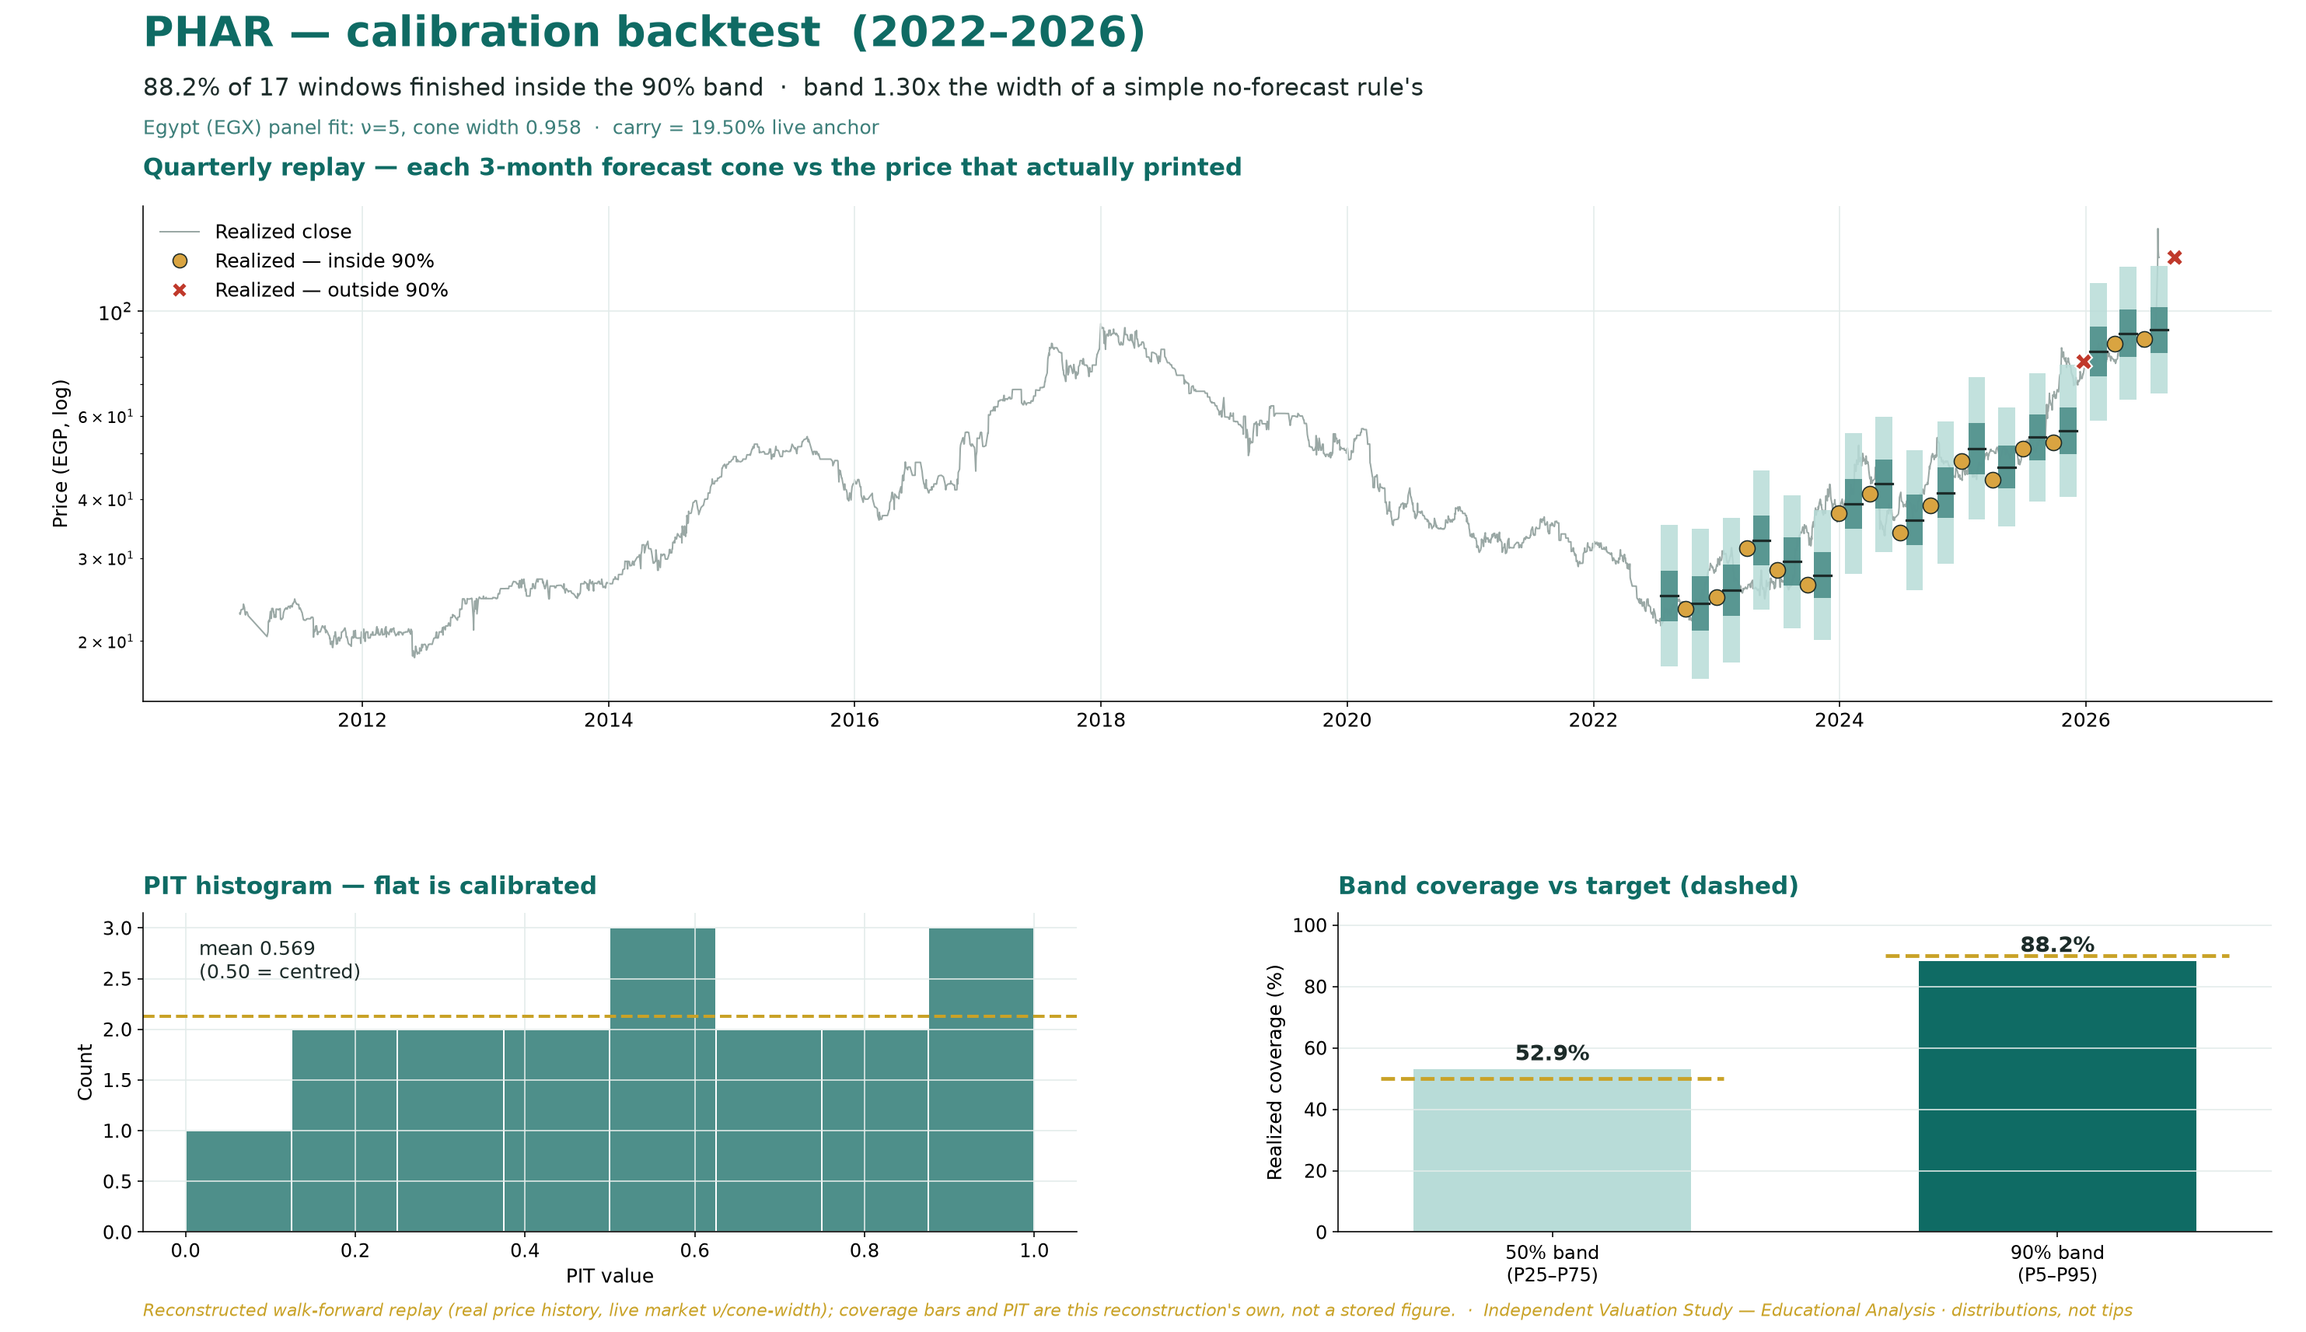
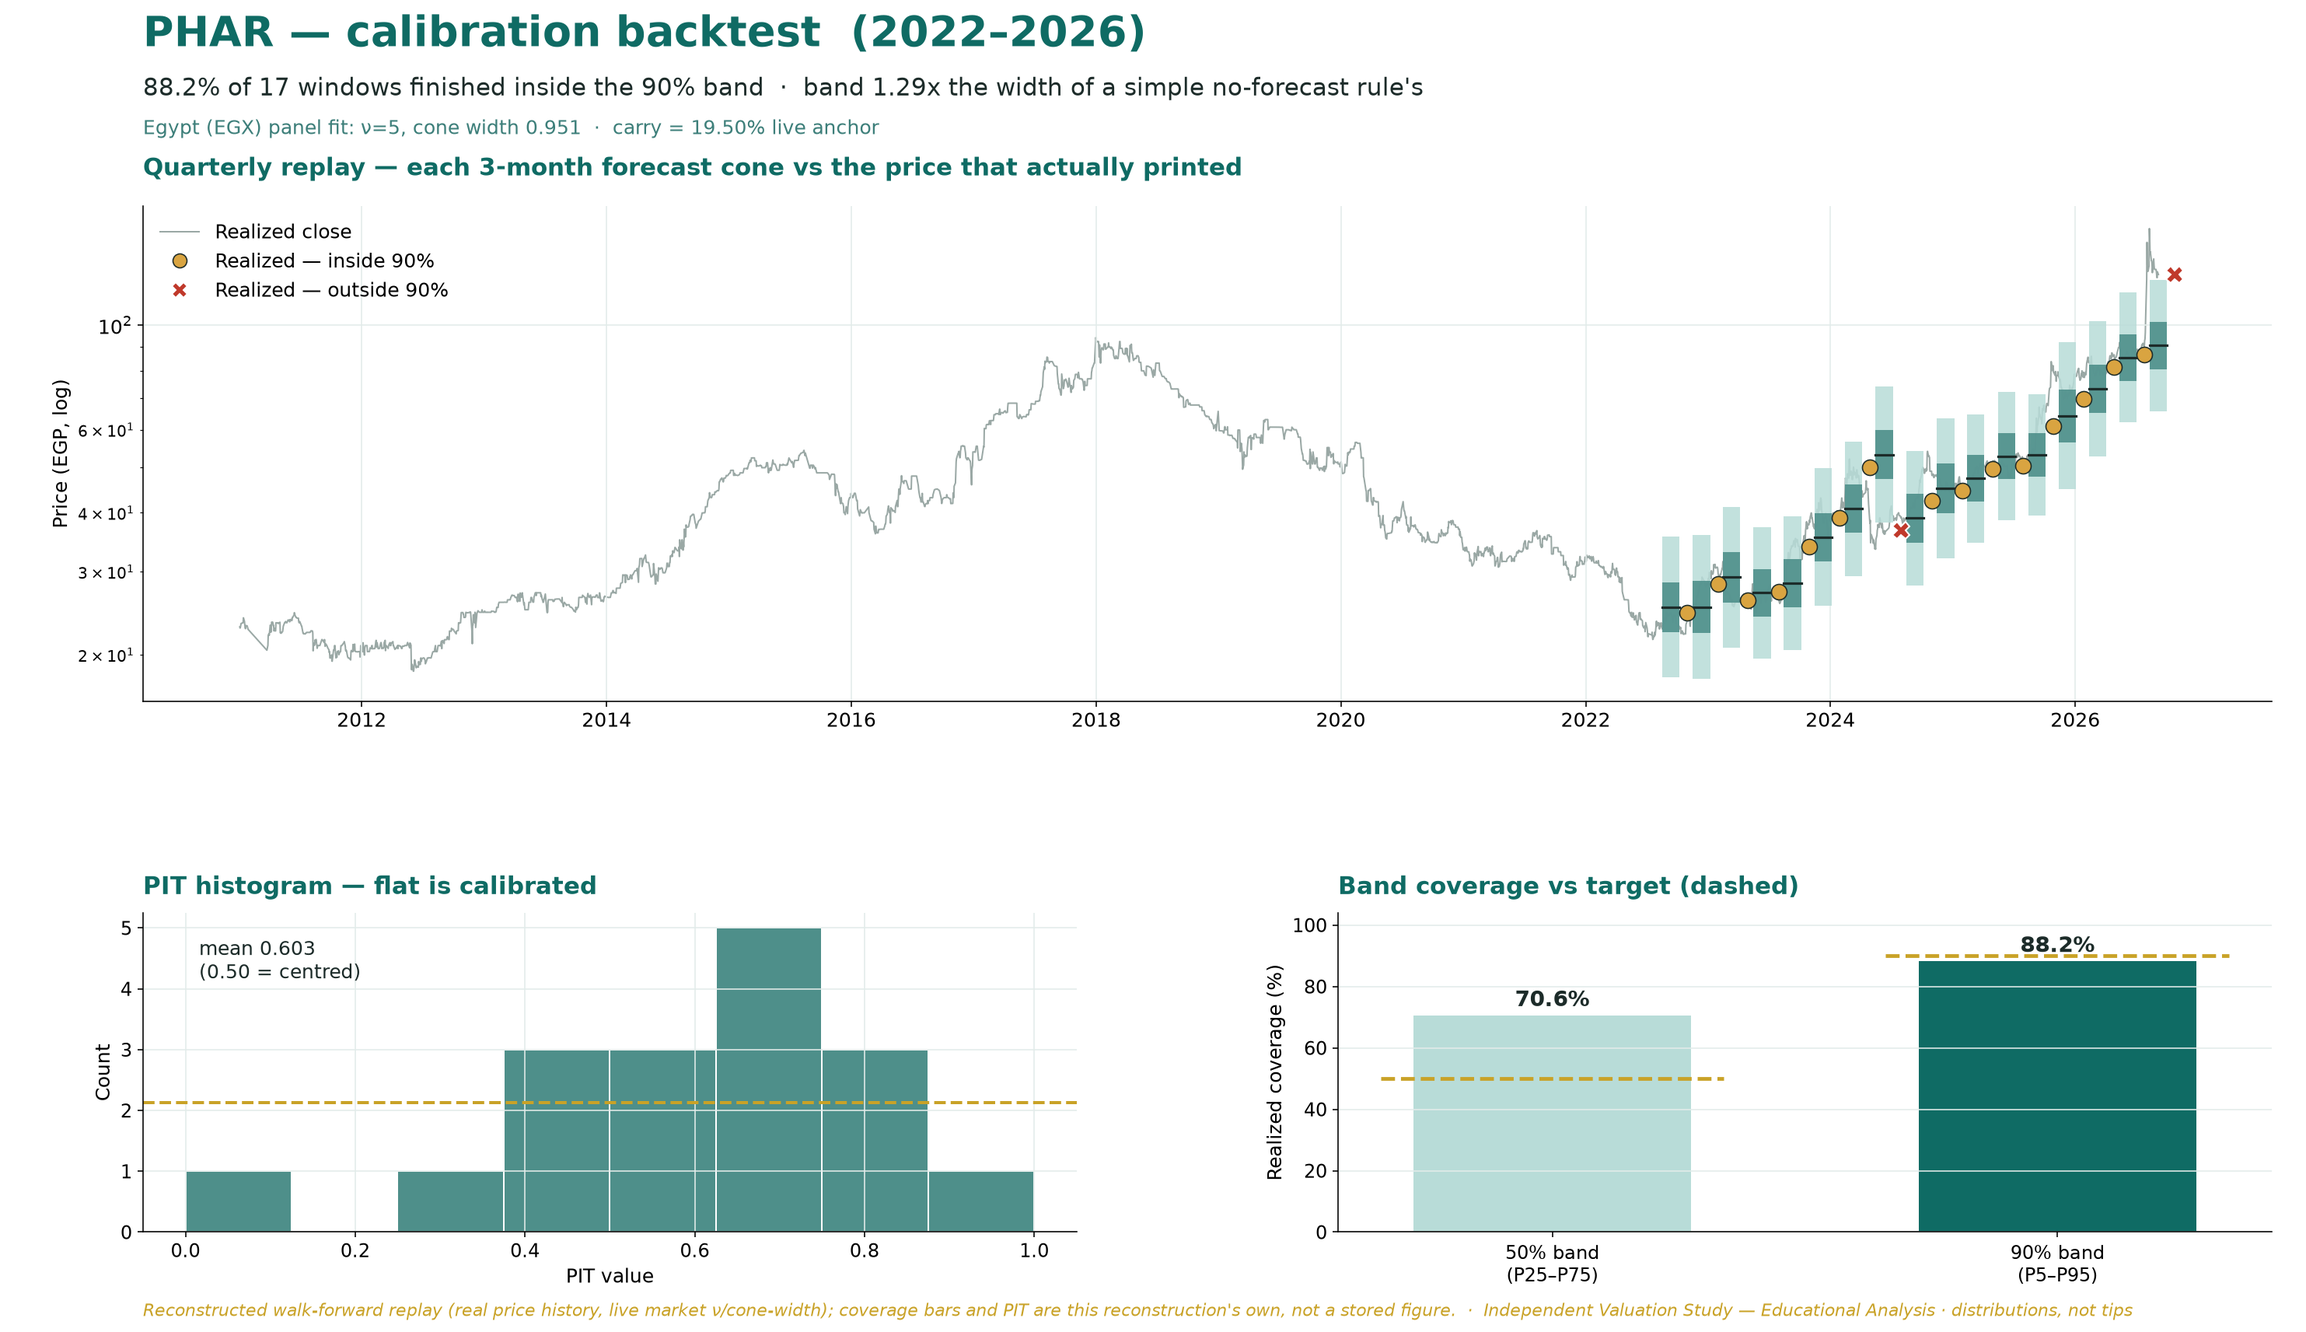
Mirror legacy/assets — the step the blocked publisher never reached
CI caught a real defect this branch introduced. check_legacy_assets_sync went RED
on legacy/assets/data.js and legacy/assets/calibration_PHAR.png: the /legacy/
pages are SERVED and read those paths relatively, so a reader on /legacy/ gets
those bytes rather than the assets/ copies this roll-forward rewrote.

THE CAUSE IS THE HOLD, NOT THE ROLL-FORWARD. mirror_legacy_assets() lives in
publish_site.py AFTER the [R-GAP-02] block at step 0/6, so refusing to publish
also skipped the mirroring — and the previous commit regenerated the surfaces by
hand precisely because the publisher had refused, without noticing that one of
the steps it skipped was not a surface generator but a COPY. Running the site's
own generators is not the same as running the publisher.

Fixed by calling publish_site.mirror_legacy_assets() itself rather than copying
the two files by hand — the function is the definition of what belongs in that
snapshot (it copies only files legacy ALREADY has, so it cannot add test.js or a
surface the old site never read). 103 files checked, 2 updated. The gate now
reads: every snapshotted surface matches assets/.

The PNG is not incidental: assets/calibration_PHAR.png was regenerated in the
roll-forward commit because PHAR's panel genuinely moved — it predated
[R-DRIFT-01], carrying alpha 0.0 on every row and a single constant drift, and
was rebuilt onto the live engine. The legacy copy was still the pre-rebuild
[…]

diff --git a/legacy/assets/data.js b/legacy/assets/data.js
@@ -461,34 +461,30 @@ const TICKERS = {
     name: "Egyptian International Pharmaceutical Industries (EIPICO)",
     nameAr: "\u0627\u0644\u0634\u0631\u0643\u0629 \u0627\u0644\u0645\u0635\u0631\u064a\u0629 \u0627\u0644\u062f\u0648\u0644\u064a\u0629 \u0644\u0644\u0635\u0646\u0627\u0639\u0627\u062a \u0627\u0644\u062f\u0648\u0627\u0626\u064a\u0629 - \u0625\u064a\u0628\u064a\u0643\u0648",
     code: "EGX:PHAR",
-    spot: 130.05,
-    spotDate: "close 6 Aug 2026",
+    spot: 128.00,
+    spotDate: "close 06 Sep 2026",
     fairAsof: "2026-08-06",   // the close the FAIR VALUE is struck on — not the publication date in the filename
     ccy: "EGP",
     fair: { bear: 58.04, base: 61.21, full: 73.03 },   // 9 Aug 2026 - TWO centres, never one. The contested judgement (the credit-loss and provision charge) is carried both ways and weighting both frames inside a single number would average them, which this study says it never does. Frame A, the charge permanent at 5.25% of revenue, gives a weighted centre of 61.21; Frame B, the charge normalising to 2.5%, gives 68.70. `base` below carries the CONSERVATIVE reading. Field 58.04 to 73.03 across five readings on four methods: cash flow 58.04 / 73.03, book value and sustainable return 62.81, relative multiples 65.42, normalised earnings power 65.40. Built bottom up from THREE product lines, each a volume x a price, reconciling the board report's two different splits of the same revenue: own preparations domestic (291.8m packs at EGP 21.22), own preparations exported (60m packs at USD 0.9996), and contract manufacturing (5.49m packs at a EGP 9.00 fee plus product resold through own channels). THE CRUX IS THE PLANT: EGP 4,901mn of construction - larger than the entire depreciated property base - was licensed in Dec-2025 and starts depreciating, and the study charges every pound of that while crediting the plant with NO revenue, because the company has published none. At EGP 130.05 the market pays EGP 72.01 a share, 55% of the price, for that plant - roughly 2.1x its stated USD 100mn cost - which needs about USD 120mn a year of biosimilar revenue by FY2030 to justify. Terminal return on capital and the terminal debt weight are COMPUTED from the model's own final year, not assumed; free cash flow is taxed at the effective rate; the forecast balance sheet is funded and balances.
     dist: {
-      t20: { label:"1 month",   p5:103.80, p25:120.56, p50:131.69, p75:143.94, p95:167.17, resolve:"2026-09-06" },
-      t60: { label:"3 months",  p5:94.40, p25:118.42, p50:135.30, p75:154.39, p95:193.82, resolve:"2026-11-08" }
+      t20: { label:"1 month",   p5:106.97, p25:122.04, p50:131.42, p75:141.53, p95:161.41, resolve:"2026-10-06" },
+      t60: { label:"3 months",  p5:97.50, p25:120.91, p50:136.46, p75:154.00, p95:190.66, resolve:"2026-12-06" }
     },
     hz: { h1:20, h3:62, l1:"1 month", l3:"3 months", cal:true },
+    fit: { nu:5, cal:0.951, mult:0.9, eff:0.8559, on:"2026-09-06" },
     touch: [ /* level, P(touch) 1-month %, 3-month % - descending */
-      [156.06, 17, 39],
-      [149.56, 27, 50],
-      [143.06, 43, 64],
-      [136.55, 64, 80],
-      [123.55, 57, 69],
-      [117.05, 33, 48]
+      [156.06, 12, 36], [149.56, 20, 47], [143.06, 34, 61], [136.55, 56, 77], [123.55, 58, 70], [117.05, 29, 45]
     ],
-    levels: { res:[140, 150, 156], sup:[92.40, 88.49, 85.40] },
+    levels: { res:[130, 135.41, 140], sup:[88.49, 85.40, 83.42] },
     tech: {
-      trend: "Trading above the whole moving-average stack, on a rising 200-day",
-      summary: "The price closed 130.05 above a rising 20-day (101.58), a rising 50-day (92.49) and a rising 200-day (82.58). Momentum is very strong: RSI(14) is ~71 and the daily ATR near 7.84 (~6.0%) points to a volatile tape. MACD (12\u00b726\u00b79) is positive and rising (+11.68 / +7.24 / +4.44). Over the last year it has ranged 43.60\u2013156.00; the last close sits 17% below that high and 198% above that low.",
-      bull: "A daily close back above 140.00 would clear the nearest resistance; the next charted level above it is 156.00.",
-      bear: "A close below 92.40 would break the nearest support; the next charted level below it is 85.40."
+      trend: "Consolidating below the near-term moving averages, above a rising 200-day",
+      summary: "The price closed 128.00 above a rising 50-day (112.27) and a rising 200-day (88.40), but below a rising 20-day (135.41). Momentum is neutral: RSI(14) is ~52 and the daily ATR near 7.58 (~5.9%) points to a volatile tape. MACD (12\u00b726\u00b79) is above zero but rolling over (+3.49 / +6.02 / \u22122.54). Over the last year it has ranged 53.10\u2013178.99; the last close sits 28% below that high and 141% above that low.",
+      bull: "A daily close back above 130.00 would clear the nearest resistance; the next charted level above it is 140.00.",
+      bear: "A close below 88.49 would break the nearest support; the next charted level below it is 83.42."
     },
     asof: {
-      mc:   { data:"2026-08-06", computed:"2026-08-06" },
-      tech: { data:"2026-08-06", computed:"2026-09-01" }
+      mc:   { data:"2026-09-06", computed:"2026-09-06" },
+      tech: { data:"2026-09-06", computed:"2026-09-06" }
     },
     files: {
       study: "files/PHAR_Valuation_Study_09-08-2026.pdf?v=0809b",
@@ -3259,7 +3255,7 @@ const BANDS = {
   ORAS: {mkt:"EG", n:41, hits:36, c50:0.4390, c80:0.8293, c90:0.8780, width:1.366, strength:"long", flag:null},
   ORHD: {mkt:"EG", n:41, hits:38, c50:0.5366, c80:0.8537, c90:0.9268, width:1.505, strength:"long", flag:null},
   ORWE: {mkt:"EG", n:57, hits:52, c50:0.5789, c80:0.7719, c90:0.9123, width:1.355, strength:"long", flag:null},
-  PHAR: {mkt:"EG", n:56, hits:56, c50:0.5536, c80:0.9464, c90:1.0000, width:1.454, strength:"long", flag:"wide"},
+  PHAR: {mkt:"EG", n:56, hits:56, c50:0.5536, c80:0.9643, c90:1.0000, width:1.447, strength:"long", flag:"wide"},
   PHDC: {mkt:"EG", n:57, hits:52, c50:0.5088, c80:0.8596, c90:0.9123, width:1.469, strength:"long", flag:null},
   PRDC: {mkt:"EG", n:15, hits:15, c50:0.7333, c80:0.8000, c90:1.0000, width:1.218, strength:"market-only", flag:null},
   Platinum: {mkt:"XPT", n:58, hits:55, c50:0.5690, c80:0.8966, c90:0.9483, width:1.193, strength:"long", flag:null},
@@ -5622,9 +5618,8 @@ const LEDGER = [
     note:"First coverage, 9-Aug-2026 — cycle 1, struck on the study's own committed path arrays at the 2026-08-06 anchor and NOT re-simulated at publish: re-striking a frozen cone would publish a forecast the study never made. Percentiles are the study's p5–p95; the touch ladder is read off those same path arrays at ±5/10/15/20% and −5/−10%, and its ±10% pair reconciles to the study's separately published figures to within 0.2 percentage points. Horizon resolved by horizons.resolve() on EG's own realized calendar, not a session count. q_annual = 0.0269 — SOURCED, not defaulted: the board proposed EGP 3.50 a share for FY2025. EG live fit nu=6.0, width_cal=0.951; rf_live 19.50%. Name-level calibration: PARITY on every window set and every bootstrap block size tested. Five-year set: 19 non-overlapping quarterly origins, skill +0.0021, coverage 47% and 100% against the 50% and 90% bands, PIT mean 0.525, block-bootstrap intervals [-0.0299, 0.0265] / [-0.0194, 0.0271] / [-0.0184, 0.0210] at block sizes 2/3/4 — all straddling zero. Post-break set, which is the period the live bands are built on: 16 windows, skill -0.0109, same PARITY verdict at every block size. No single-name edge exists on this name and none is claimed. The price map is published as a map of dispersion around today's price, never as a forecast of value.",
     p5:103.80, p25:120.56, p50:131.69, p75:143.94, p95:167.17,
     touch:{ "+5":64, "+10":43, "+15":27, "+20":17, "-5":57, "-10":33 },
-    realized_close:null, realized_high:null, realized_low:null, in_90:null, in_50:null,
-    realized_quantile:null, median_err:null,
-    touch_hit:{ "+5":null, "+10":null, "+15":null, "+20":null, "-5":null, "-10":null },
+    realized_close:128, realized_high:178.99, realized_low:124.5, in_90:true, in_50:true, realized_quantile:0.417, median_err:-0.0280,
+    touch_hit:{ "+5":true, "+10":true, "+15":true, "+20":true, "-5":false, "-10":false },
     reanchor_from:null },
   { instrument:"PHAR", asset_class:"equity", anchor_date:"2026-08-06", run_date:"2026-08-06", anchor_price:130.05, ccy:"EGP",
     horizon_label:"3 months", grade_date:"2026-11-08", grade_basis:"projected", horizon_days:62, cycle_no:1,
@@ -7762,6 +7757,35 @@ const LEDGER = [
     realized_close:null, realized_high:null, realized_low:null,
     in_90:null, in_50:null, realized_quantile:null, median_err:null,
     touch_hit:{ "+5":null, "+10":null, "+15":null, "+20":null, "-5":null, "-10":null }
+  },
+
+  // ---- 06-Sep-2026 single-name roll-forward: PHAR, struck on its own
+  //      latest library close. Append-only.
+  {
+    instrument:"PHAR", asset_class:"equity",
+    anchor_date:"2026-09-06", run_date:"2026-09-06", anchor_price:128.0, ccy:"EGP",
+    horizon_label:"1 month", grade_date:"2026-10-06", grade_basis:"projected", horizon_days:20,
+    cycle_no:2, reanchor_from:"2026-08-06", anchor_vol:0.5506,
+    signal_z:1.682, signal_alpha:0.013845,
+    note:"Cycle 2 roll-forward, 06-Sep-2026 — struck on the 06-Sep-2026 close, the latest session in this name’s library, at the monthly metronome — the prior cycle’s 1-month matured on 2026-09-06 and is graded in this same pass. The previous cone was anchored 2026-08-06; every still-open cohort on cycle 1 stays OPEN and grades on its own terms; nothing retro-edited. Production chain, no approximation: Step 0.0 data-quality gate → YZ variance proxy → fit_har_v3 → har_forecast_v3 → carry drift ln(1+rf_live)−ln(1+q) → simulate_paths_v3, 50,000 paths, seed 42, signal ON. q_annual=0.027344 (FLAGGED — house convention; the drift is a GROSS-OF-DIVIDEND price carry and overstates the centre by roughly the yield.) EG live fit nu=5.0, width_cal=0.951. PER-NAME WIDTH OVERLAY APPLIED (engine/adaptive_width.py): this name has cleared the 28-window history gate, so live_width_mult() returns 0.9000 on its OWN resolved 3-month residuals and the cone was simulated at an effective width_cal of 0.8559, not the pooled 0.951. It is an OVERLAY, NOT A REFIT: the pooled (nu, width_cal), the carry drift and the tail nu are untouched by it. rf_live 19.50% CBE main operation rate. Direction call UP, from this name’s own mom_combo z of +1.682 (outside the 0.25 dead zone); tilt +1.39% at 1M and +2.50% at 3M, applied through the engine’s per-market signal socket at the horizon’s own measured ic and capped at ic x sigma x z. Horizons resolved by horizons.resolve() on EG’s own realized calendar — a calendar commitment, not a session count; the session counts (h=20 / 62) size the cone only.",
+    p5:106.97, p25:122.04, p50:131.42, p75:141.53, p95:161.41,
+    touch:{ "+5":65, "+10":41, "+15":24, "+20":14, "-5":47, "-10":24 },
+    realized_close:null, realized_high:null, realized_low:null,
+    in_90:null, in_50:null, realized_quantile:null, median_err:null,
+    touch_hit:{ "+5":null, "+10":null, "+15":null, "+20":null, "-5":null, "-10":null }
+  },
+  {
+    instrument:"PHAR", asset_class:"equity",
+    anchor_date:"2026-09-06", run_date:"2026-09-06", anchor_price:128.0, ccy:"EGP",
+    horizon_label:"3 months", grade_date:"2026-12-06", grade_basis:"projected", horizon_days:62,
+    cycle_no:2, reanchor_from:"2026-08-06", anchor_vol:0.509,
+    signal_z:1.682, signal_alpha:0.024714,
+    note:"Cycle 2 roll-forward, 06-Sep-2026 — struck on the 06-Sep-2026 close, the latest session in this name’s library, at the monthly metronome — the prior cycle’s 1-month matured on 2026-09-06 and is graded in this same pass. The previous cone was anchored 2026-08-06; every still-open cohort on cycle 1 stays OPEN and grades on its own terms; nothing retro-edited. Production chain, no approximation: Step 0.0 data-quality gate → YZ variance proxy → fit_har_v3 → har_forecast_v3 → carry drift ln(1+rf_live)−ln(1+q) → simulate_paths_v3, 50,000 paths, seed 42, signal ON. q_annual=0.027344 (FLAGGED — house convention; the drift is a GROSS-OF-DIVIDEND price carry and overstates the centre by roughly the yield.) EG live fit nu=5.0, width_cal=0.951. PER-NAME WIDTH OVERLAY APPLIED (engine/adaptive_width.py): this name has cleared the 28-window history gate, so live_width_mult() returns 0.9000 on its OWN resolved 3-month residuals and the cone was simulated at an effective width_cal of 0.8559, not the pooled 0.951. It is an OVERLAY, NOT A REFIT: the pooled (nu, width_cal), the carry drift and the tail nu are untouched by it. rf_live 19.50% CBE main operation rate. Direction call UP, from this name’s own mom_combo z of +1.682 (outside the 0.25 dead zone); tilt +1.39% at 1M and +2.50% at 3M, applied through the engine’s per-market signal socket at the horizon’s own measured ic and capped at ic x sigma x z. Horizons resolved by horizons.resolve() on EG’s own realized calendar — a calendar commitment, not a session count; the session counts (h=20 / 62) size the cone only.",
+    p5:97.5, p25:120.91, p50:136.46, p75:154.0, p95:190.66,
+    touch:{ "+5":82, "+10":66, "+15":52, "+20":40, "-5":62, "-10":40 },
+    realized_close:null, realized_high:null, realized_low:null,
+    in_90:null, in_50:null, realized_quantile:null, median_err:null,
+    touch_hit:{ "+5":null, "+10":null, "+15":null, "+20":null, "-5":null, "-10":null }
   }
 ];
 
@@ -8047,7 +8071,7 @@ const CALIB = {
   "EGX:ORAS": {w: 41, in50: 44, in90: 88, through: "2026-07-12"},
   "EGX:ORHD": {w: 41, in50: 51, in90: 90, through: "2026-07-22"},
   "EGX:ORWE": {w: 57, in50: 54, in90: 88, through: "2026-07-22"},
-  "EGX:PHAR": {w: 56, in50: 52, in90: 100, through: "2026-06-24"},
+  "EGX:PHAR": {w: 56, in50: 54, in90: 98, through: "2026-06-24"},
   "EGX:PHDC": {w: 57, in50: 47, in90: 89, through: "2026-07-12"},
   "EGX:PRDC": {w: 15, in50: 60, in90: 93, through: "2026-08-11"},
   "EGX:RAYA": {w: 57, in50: 70, in90: 93, through: "2026-07-12"},
